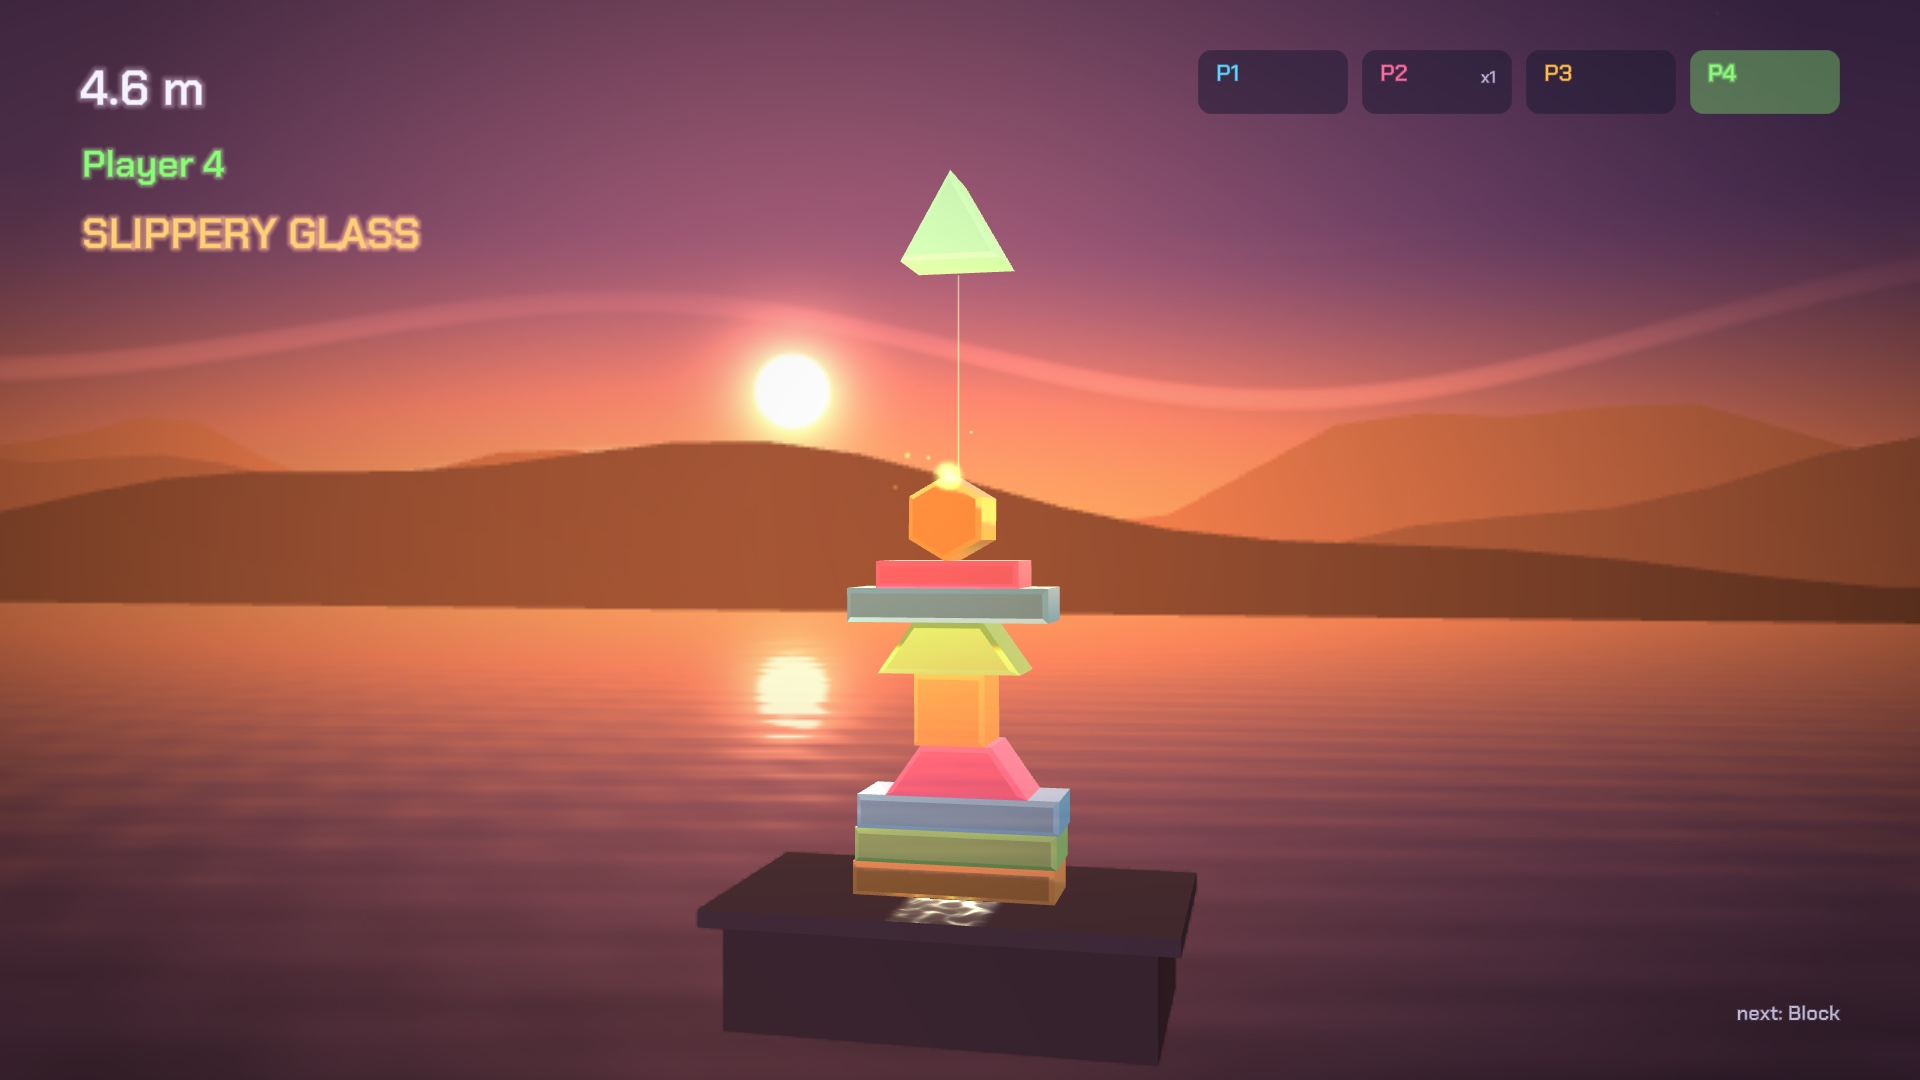
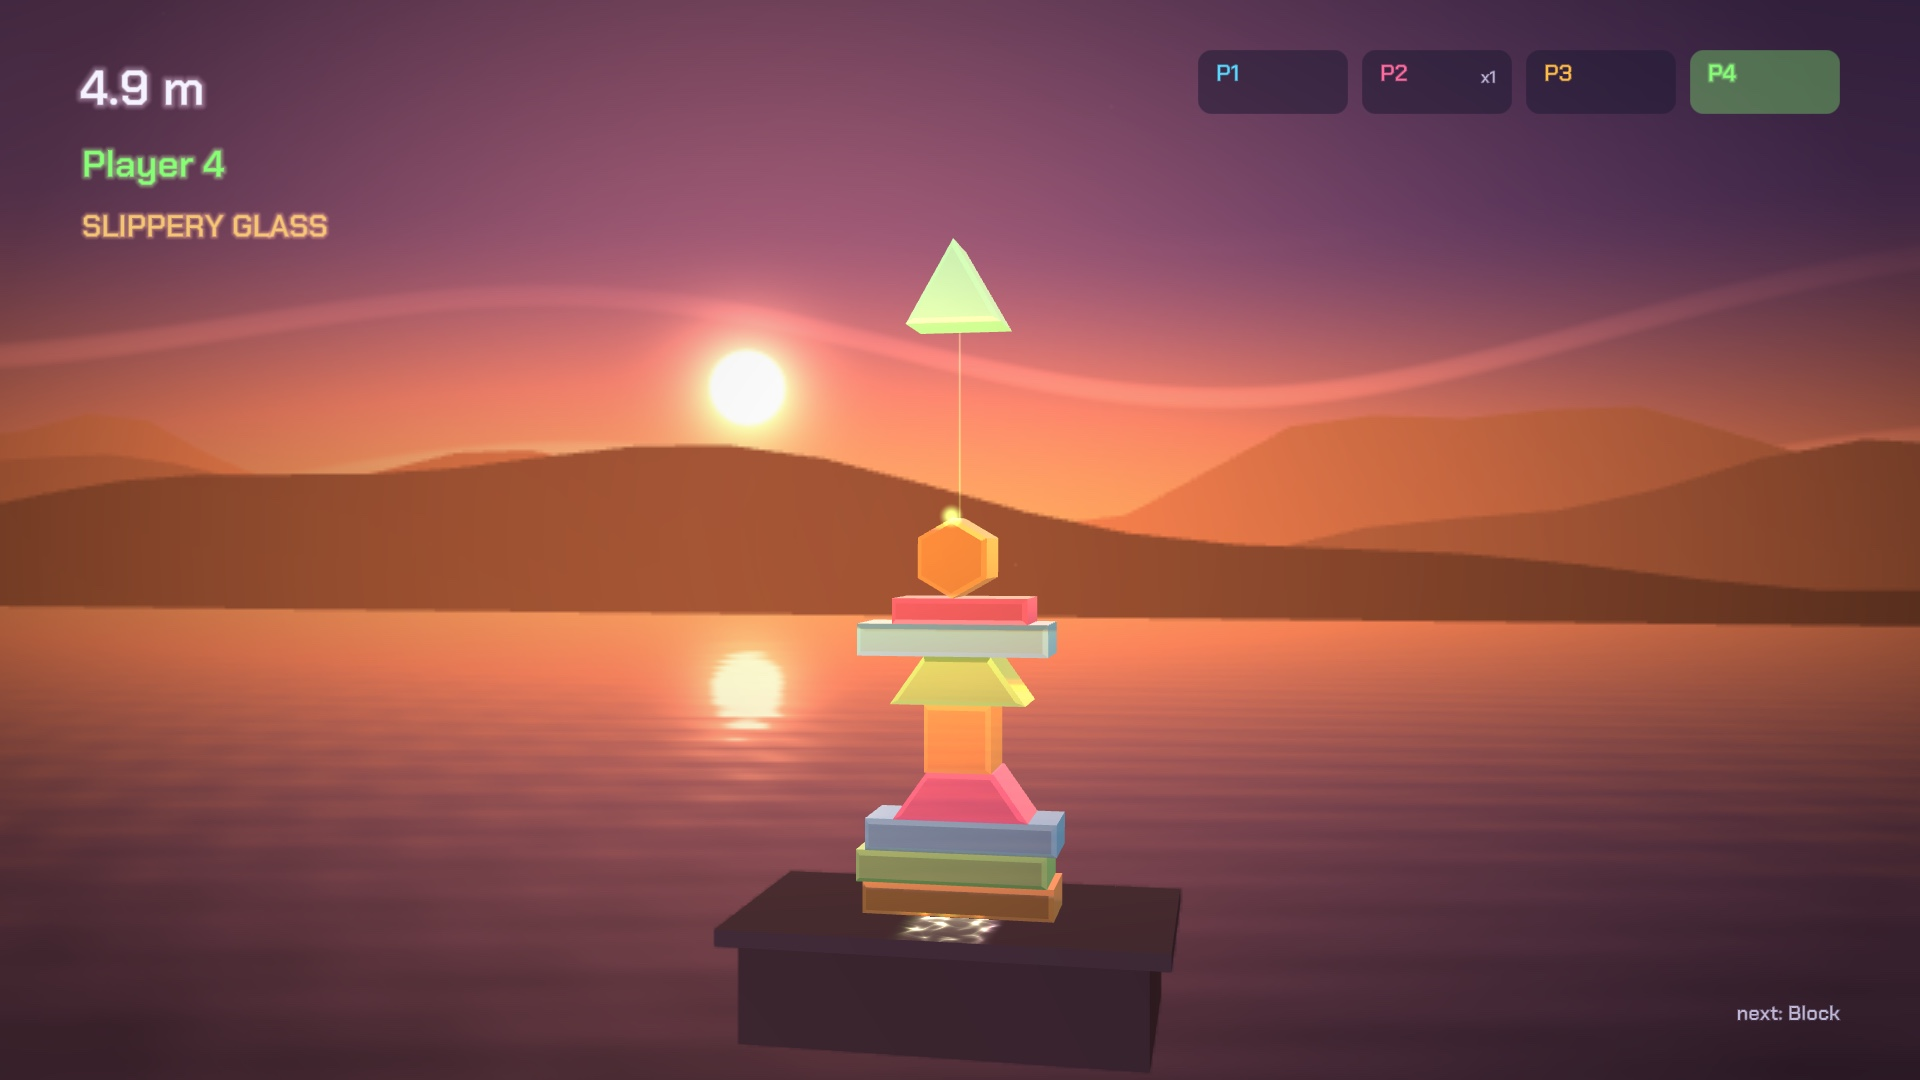
Prism Spire: a replay of every collapse (letterboxed, a sweeping camera, its chimes again; OK skips)
From each drop on, the last 6 s of every piece's position, the plinth's shake and the chimes and
shatters are kept in a ring; after the collapse the 4 s around it play again before the results.
Seen on the TV at 59.3 fps. The store kit gains the replay and re-picks the frames the replay moved;
shots fix the Daily Spire's day so the kit reproduces.

diff --git a/apps/prism-spire/src/game.c b/apps/prism-spire/src/game.c
@@ -137,7 +137,7 @@ typedef struct {
 
 typedef struct { float x, y, z, vx, vy, vz, life, max, size; Col c; int kind; } Fx;  /* kind 0 spark, 1 streak */
 
-typedef enum { ST_TITLE, ST_HOWTO, ST_CREDITS, ST_AIM, ST_SETTLE, ST_COLLAPSE, ST_RESULT, ST_PAUSE } State;
+typedef enum { ST_TITLE, ST_HOWTO, ST_CREDITS, ST_AIM, ST_SETTLE, ST_COLLAPSE, ST_REPLAY, ST_RESULT, ST_PAUSE } State;
 typedef enum { EV_NONE, EV_WIND, EV_TREMOR, EV_SLIPPERY } Event;
 static const char *const kEventName[] = {"", "WIND", "TREMOR", "SLIPPERY GLASS"};
 
@@ -152,6 +152,7 @@ static struct {
     Piece pieces[MAX_PIECES];
     int npieces_placed;     /* pieces dropped this round */
     bool lowering;          /* OK was pressed: the piece glides down the beam before it is let go */
+    int replay_from, replay_to, replay_ev;  /* the collapse replay: recorded frames, next event */
     float release_y;
     /* the turn */
     bool solo, demo;        /* demo: the AI plays (attract mode and scripts) */
@@ -381,6 +382,70 @@ static void fx_add(float x, float y, float z, float vx, float vy, float vz, floa
     G.fx[G.nfx++] = (Fx){x, y, z, vx, vy, vz, life, life, size, c, kind};
 }
 
+/* ---- the collapse replay ----------------------------------------------------------------------- */
+/* From each drop on, the last 6 s of every piece's position (and the plinth's shake) are kept in a
+ * ring of frames, with the chimes and shatters as events. After a collapse the game plays the
+ * moments around it again from a camera sweeping round the plinth, before the results. */
+#define REC_FRAMES 360
+#define REC_PER_FRAME 128
+#define REC_EVENTS 768   /* at most 2 chimes a frame are kept, so 6 s of collapse fits */
+typedef struct { float x, y, a, sink; uint8_t shape, frost, rgba[4]; } RecEnt;
+typedef struct { int frame; int kind; float vel, pan, x; Col tint; } RecEvent;  /* kind 0 chime, 1 shatter */
+static RecEnt g_rec[REC_FRAMES][REC_PER_FRAME];
+static uint8_t g_rec_n[REC_FRAMES];
+static float g_rec_shake[REC_FRAMES];
+static RecEvent g_rec_ev[REC_EVENTS];
+static int g_rec_frames, g_rec_nev, g_rec_collapse = -1;
+static bool g_recording;
+
+static void rec_reset(void)
+{
+    g_rec_frames = g_rec_nev = 0;
+    g_rec_collapse = -1;
+}
+static void rec_event(int kind, float vel, float pan, float x, Col tint)
+{
+    static int frame = -1, in_frame;
+    if (!g_recording) return;
+    if (frame != g_rec_frames) { frame = g_rec_frames; in_frame = 0; }
+    if (kind == 0 && in_frame >= 2) return;
+    in_frame++;
+    if (g_rec_nev >= REC_EVENTS) {  /* full (a long settle): forget events older than the frame ring */
+        int j = 0;
+        for (int i = 0; i < g_rec_nev; i++)
+            if (g_rec_ev[i].frame > g_rec_frames - REC_FRAMES) g_rec_ev[j++] = g_rec_ev[i];
+        g_rec_nev = j;
+        if (g_rec_nev >= REC_EVENTS) return;
+    }
+    g_rec_ev[g_rec_nev++] = (RecEvent){g_rec_frames, kind, vel, pan, x, tint};
+}
+static uint8_t to_u8(float v) { return (uint8_t)(clampf(v, 0.0f, 1.0f) * 255.0f + 0.5f); }
+static void rec_frame(void)
+{
+    const int f = g_rec_frames % REC_FRAMES;
+    int n = 0;
+    for (int i = 0; i < MAX_PIECES && n < REC_PER_FRAME; i++) {
+        const Piece *p = &G.pieces[i];
+        if (!p->used) continue;
+        const b2Vec2 c = b2Body_GetPosition(p->body);
+        RecEnt *e = &g_rec[f][n++];
+        e->x = c.x;
+        e->y = c.y;
+        e->a = b2Rot_GetAngle(b2Body_GetRotation(p->body));
+        e->sink = clampf(1.0f - (p->under_t - 2.0f) / 1.5f, 0.0f, 1.0f);
+        e->shape = (uint8_t)p->shape;
+        e->frost = p->frost > 0.5f;
+        e->rgba[0] = to_u8(p->tint.r);
+        e->rgba[1] = to_u8(p->tint.g);
+        e->rgba[2] = to_u8(p->tint.b);
+        e->rgba[3] = to_u8(p->tint.a);
+    }
+    g_rec_n[f] = (uint8_t)n;
+    g_rec_shake[f] = G.shake;
+    g_rec_frames++;
+}
+static int replay_frame(void) { return G.replay_from + (int)(G.t * 60.0f); }
+
 static void fx_burst(float x, float y, Col c, int n, float speed)
 {
     for (int i = 0; i < n; i++) {
@@ -442,6 +507,7 @@ static void toast(const char *s)
 static void begin_turn(void)
 {
     G.lowering = false;
+    rec_reset();
     G.state = ST_AIM;
     G.t = 0;
     G.hover_shape = G.next_shape;
@@ -482,7 +548,7 @@ static void new_round(bool keep_scores)
     G.new_best = false;
     if (!keep_scores) memset(G.losses, 0, sizeof G.losses);
     if (G.solo) {
-        G.day = today();
+        G.day = G.shots ? 20408u : today();  /* scripted shots: a fixed day, so the store frames reproduce */
         G.deal.s = (uint64_t)G.day * 2654435761ull + 12345;
         G.cur = 0;
         G.nplayers = 1;
@@ -548,6 +614,7 @@ static void start_collapse(void)
     G.state = ST_COLLAPSE;
     G.t = 0;
     G.loser = G.cur;
+    g_rec_collapse = g_rec_frames;
     G.slowmo = 0.3f;
     G.event = EV_NONE;
     G.tremor_t = 0;
@@ -638,7 +705,10 @@ static void physics_step(float dt)
         const int pi = ia >= 0 ? ia : ib;
         const float vel = clampf(h->approachSpeed / 6.0f, 0.0f, 1.0f);
         if (G.state == ST_COLLAPSE || G.state == ST_RESULT) {
-            if (chimes++ < 6) audio_chime(vel, h->point.x / 5.0f);
+            if (chimes++ < 6) {
+                audio_chime(vel, h->point.x / 5.0f);
+                rec_event(0, vel, h->point.x / 5.0f, 0.0f, col(1, 1, 1, 1));
+            }
         }
         if (ground && pi >= 0 && G.pieces[pi].used && !G.pieces[pi].shard && h->approachSpeed > 2.5f && nshatter < 16) {
             bool dup = false;
@@ -666,6 +736,7 @@ static void physics_step(float dt)
             }
             fx_burst(c.x, -PLINTH_H + 0.2f, tint, 18, 4.0f);
             audio_shatter(vel, c.x / 5.0f);
+            rec_event(1, vel, c.x / 5.0f, c.x, tint);
         }
     }
 }
@@ -711,6 +782,31 @@ static void settle_update(float dt)
     }
 }
 
+static void show_result(void)
+{
+    G.state = ST_RESULT;
+    G.t = 0;
+    audio_music(0);
+    audio_ui(UI_FANFARE, 0);
+}
+
+static void start_replay(void)
+{
+    const int oldest = g_rec_frames > REC_FRAMES ? g_rec_frames - REC_FRAMES : 0;
+    G.replay_from = g_rec_collapse - 50 > oldest ? g_rec_collapse - 50 : oldest;
+    G.replay_to = g_rec_collapse + 190 < g_rec_frames - 1 ? g_rec_collapse + 190 : g_rec_frames - 1;
+    if (g_rec_collapse < 0 || G.replay_to - G.replay_from < 60) {
+        show_result();
+        return;
+    }
+    G.state = ST_REPLAY;
+    G.t = 0;
+    SDL_Log("prism-spire: replay: %d frames, %d events", G.replay_to - G.replay_from, g_rec_nev);
+    for (G.replay_ev = 0; G.replay_ev < g_rec_nev && g_rec_ev[G.replay_ev].frame < G.replay_from; G.replay_ev++) {}
+    audio_music(0);
+    audio_ui(UI_TURN, 0);
+}
+
 static void aim_update(float dt)
 {
     if (G.lowering) {
@@ -744,20 +840,28 @@ static void update(float dt)
     G.t += dt;
     if (G.toast_t > 0) G.toast_t -= dt;
     fx_update(dt);
-    const bool playing = G.state == ST_AIM || G.state == ST_SETTLE || G.state == ST_COLLAPSE || G.state == ST_RESULT ||
+    const bool playing = G.state == ST_AIM || G.state == ST_SETTLE || G.state == ST_COLLAPSE || G.state == ST_REPLAY || G.state == ST_RESULT ||
                          ((G.state == ST_TITLE || G.state == ST_HOWTO || G.state == ST_CREDITS) && G.demo);
     if (G.state == ST_PAUSE) return;
     if (playing) {
         if (G.state == ST_COLLAPSE) {
             G.slowmo = G.t < 2.2f ? 0.3f : approach(G.slowmo, 1.0f, 2.0f, dt);
-            if (G.t > 5.0f) {
-                G.state = ST_RESULT;
-                G.t = 0;
-                audio_music(0);
-                audio_ui(UI_FANFARE, 0);
+            if (G.t > 5.0f) start_replay();
+        } else if (G.state == ST_REPLAY) {
+            const int f = replay_frame();
+            for (; G.replay_ev < g_rec_nev && g_rec_ev[G.replay_ev].frame <= f; G.replay_ev++) {
+                const RecEvent *e = &g_rec_ev[G.replay_ev];
+                if (e->kind == 0) audio_chime(e->vel, e->pan);
+                else {
+                    audio_shatter(e->vel, e->pan);
+                    fx_burst(e->x, -PLINTH_H + 0.2f, e->tint, 18, 4.0f);
+                }
             }
+            if (f > G.replay_to) show_result();
         }
+        g_recording = G.state == ST_SETTLE || G.state == ST_COLLAPSE;
         physics_step(STEP * G.slowmo);
+        if (g_recording) rec_frame();
         if (G.state == ST_AIM) aim_update(dt);
         settle_update(dt);
         /* attract mode: rebuild after a collapse */
@@ -857,7 +961,17 @@ static void draw_world(void)
     float orbit = 0.22f * sinf(G.time * 0.11f);
     if (G.state == ST_COLLAPSE) orbit += 0.6f * sinf(clampf(G.t / 5.0f, 0, 1) * (float)M_PI * 0.5f);
     if (G.state == ST_TITLE || G.state == ST_HOWTO || G.state == ST_CREDITS) orbit = 0.45f * sinf(G.time * 0.07f);
-    G.cam_orbit = approach(G.cam_orbit, orbit, 1.5f, 1.0f / 60.0f);
+    const bool replay = G.state == ST_REPLAY;
+    if (replay) {
+        /* the replay cuts to the other side and sweeps round; the whole spire stays in frame between
+         * the letterbox bars */
+        const float k = clampf((float)(replay_frame() - G.replay_from) / (float)(G.replay_to - G.replay_from), 0.0f, 1.0f);
+        G.cam_orbit = -0.95f + 1.75f * k * k * (3.0f - 2.0f * k);
+        G.cam_r = target_r * 1.08f;
+        G.cam_y = target_y * 0.92f;
+    } else {
+        G.cam_orbit = approach(G.cam_orbit, orbit, 1.5f, 1.0f / 60.0f);
+    }
     /* Eye a little below the tower's middle, so the glass stands against the sky. On the title the
      * tower sits to the right of the menu. */
     const bool title = G.state == ST_TITLE || G.state == ST_HOWTO || G.state == ST_CREDITS;
@@ -867,10 +981,22 @@ static void draw_world(void)
     const float tgt[3] = {G.cam_x, G.cam_y + 0.4f, 0.0f};
     render_camera(eye, tgt, 42.0f);
 
-    render_plinth(G.shake);
+    const int rf = replay ? replay_frame() % REC_FRAMES : 0;
+    render_plinth(replay ? g_rec_shake[rf] : G.shake);
     /* caustics: glass near the bottom of the tower colours the plinth's top */
     int nc = 0;
-    for (int i = 0; i < MAX_PIECES && nc < 16; i++) {
+    if (replay) {
+        for (int k = 0; k < g_rec_n[rf]; k++) {
+            const RecEnt *e = &g_rec[rf][k];
+            const Col t = col(e->rgba[0] / 255.0f, e->rgba[1] / 255.0f, e->rgba[2] / 255.0f, e->rgba[3] / 255.0f);
+            if (e->y >= 0 && e->y <= 1.6f && e->shape != SH_SHARD && nc < 16) {
+                render_caustic(e->x, 0.55f, col_scale(t, 0.55f));
+                nc++;
+            }
+            if (e->sink > 0.0f) render_piece(g_mesh[e->shape], e->x, e->y - (1.0f - e->sink) * 0.3f, e->a, t, e->frost ? 1.0f : 0.0f, 0.0f, e->sink);
+        }
+    }
+    for (int i = 0; i < MAX_PIECES && nc < 16 && !replay; i++) {
         const Piece *p = &G.pieces[i];
         if (!p->used || p->shard) continue;
         const b2Vec2 c = b2Body_GetPosition(p->body);
@@ -879,7 +1005,7 @@ static void draw_world(void)
         nc++;
     }
     /* pieces */
-    for (int i = 0; i < MAX_PIECES; i++) {
+    for (int i = 0; i < MAX_PIECES && !replay; i++) {
         const Piece *p = &G.pieces[i];
         if (!p->used) continue;
         const b2Vec2 c = b2Body_GetPosition(p->body);
@@ -961,6 +1087,16 @@ static void draw_hud(void)
         SDL_snprintf(s, sizeof s, "next: %s", kShapeNames[G.next_shape]);
         render_text(s, 1840, 1000, 26, dim, 1, 0);
     }
+}
+
+static void draw_replay(void)
+{
+    const float a = clampf(G.t / 0.3f, 0, 1);
+    render_panel(0, 0, 1920, 92, 0, col(0, 0, 0, 0.85f * a));  /* letterbox */
+    render_panel(0, 988, 1920, 92, 0, col(0, 0, 0, 0.85f * a));
+    render_panel(84, 33, 24, 24, 12, col(1.0f, 0.25f, 0.3f, (0.55f + 0.45f * sinf(G.time * 5.0f)) * a));
+    render_text("REPLAY", 124, 24, 36, col(0.96f, 0.95f, 1.0f, a), -1, 0.3f);
+    if (!G.demo) render_text("OK skip", 1840, 1014, 26, col(0.75f, 0.72f, 0.85f, a), 1, 0);
 }
 
 static void draw_result(void)
@@ -1228,6 +1364,10 @@ bool game_button(GameButton b, bool down)
         break;
     case ST_COLLAPSE:
         break;
+    case ST_REPLAY:
+        if (G.demo && (b == GB_BACK || b == GB_MENU)) go_title();
+        else if (!G.demo && G.t > 0.3f && (b == GB_OK || b == GB_START || b == GB_BACK)) show_result();
+        break;
     case ST_RESULT:
         if (G.t < 0.8f) break;
         if (b == GB_OK || b == GB_START) {
@@ -1267,6 +1407,7 @@ void game_frame(float dt, int fb_w, int fb_h, float fps)
     case ST_HOWTO: draw_howto(); break;
     case ST_CREDITS: draw_credits(); break;
     case ST_AIM: case ST_SETTLE: case ST_COLLAPSE: draw_hud(); break;
+    case ST_REPLAY: draw_replay(); break;
     case ST_RESULT: draw_hud(); draw_result(); break;
     case ST_PAUSE: draw_hud(); draw_pause(); break;
     }

diff --git a/apps/prism-spire/store/README.md b/apps/prism-spire/store/README.md
@@ -11,7 +11,7 @@ App Test walkthrough is in [Gravity Choir's kit](../../gravity-choir/store/READM
 | `app-icon-1280x720.png` | Fire TV app icon (required; no transparency) | 1280×720 |
 | `../icon/icon.png` | large icon (also the package's launcher icon) | 512×512 |
 | `icon-114.png` | small icon | 114×114 |
-| `screenshot-1.jpg` … `screenshot-7.jpg` | the title, aiming at 6 m, 7.3 m, an event, a collapse, the results, the Daily Spire | 1920×1080 |
+| `screenshot-1.jpg` … `screenshot-8.jpg` | the title, aiming at 6 m, 7.3 m, an event, a collapse, its replay, the results, the Daily Spire | 1920×1080 |
 | `background-1920x1080.jpg` | optional background image | 1920×1080 |
 
 Every image is a frame the game rendered itself: `make-kit.sh` runs the Mac build
@@ -34,7 +34,7 @@ The demo AI plays the party rounds; frames on the stick look the same (checked a
 >
 > On your own, climb the Daily Spire: everyone gets the same pieces and events today, and your best height is saved.
 >
-> The glass catches the low sun and bends the sky behind it, every piece that comes to rest rings a bell tuned to its height, and a collapse sends shards ringing into the lake. All the sound is synthesized live. The game runs natively at 60 frames per second.
+> The glass catches the low sun and bends the sky behind it, every piece that comes to rest rings a bell tuned to its height, and a collapse sends shards ringing into the lake, then plays again in slow motion from the other side. All the sound is synthesized live. The game runs natively at 60 frames per second.
 >
 > Controls: Left and Right move the piece, Up and Down turn it, OK drops it, and Back pauses. Gamepads work too, for whoever's turn it is.
 
@@ -60,7 +60,7 @@ The demo AI plays the party rounds; frames on the stick look the same (checked a
 - **Credits and licences:** Credits on the title screen; `assets/licenses/` in the package (Box2D, SDL,
   the Chakra Petch font).
 - **Testing instructions** (the console's field for things a reviewer might not find):
-  > Fire TV remote: on the title, Up/Down choose and Left/Right set the number of players for a party; OK starts. In a round, Left/Right move the hovering piece, Up/Down rotate it, and OK drops it; pass the remote to the player named on the left. A round ends when a piece falls off the plinth; OK starts the next round, Back returns to the title. Back during play pauses; Back on the title exits. Daily Spire is a solo mode with the same pieces for everyone each day. After three minutes without input the sound goes quiet so the screensaver can start; any button brings it back. No account, network connection or purchase is involved.
+  > Fire TV remote: on the title, Up/Down choose and Left/Right set the number of players for a party; OK starts. In a round, Left/Right move the hovering piece, Up/Down rotate it, and OK drops it; pass the remote to the player named on the left. A round ends when a piece falls off the plinth: a short replay of the collapse plays (OK skips it), then the results, where OK starts the next round and Back returns to the title. Back during play pauses; Back on the title exits. Daily Spire is a solo mode with the same pieces for everyone each day. After three minutes without input the sound goes quiet so the screensaver can start; any button brings it back. No account, network connection or purchase is involved.
 
 ## Before submitting
 - A playtest with people: round length and the piece mix were tuned with the demo AI only

diff --git a/docs/STATUS.md b/docs/STATUS.md
@@ -9,7 +9,8 @@ _Last updated: 2026-11-17 (Prism Spire and Chroma Orbit polished, measured and g
   - Mac preview: `apps/prism-spire/host-preview.sh run|shots <title|play|tall|collapse|solo|keyart|logo|howto|credits>`; the same scripts on the TV with `pkg://com.firetvnative.prismspire.main?script=tall`. Audio check: `apps/prism-spire/tools/audio-test.sh` (writes a WAV).
   - 2026-11-17: OK glides the piece down its beam before letting go, and the deal ramps in the tricky shapes after the 5th piece: careful-AI rounds went from 8.1 pieces / 3.1 m to 10.7 / 4.9 m (`DESIGN.md`, "Balance, measured"; a `round over` log line for playtests). One full-screen pass instead of two (decision 65): the title 55 → 59.5 fps, play 59.3; MSAA on the background, a soft sun. The turn and event labels moved under the height; the title menu moved left of the spire.
   - Store kit: `apps/prism-spire/store/` (`make-kit.sh` renders every image deterministically).
-  - Next: a playtest with people (round length, piece mix, event odds), a collapse replay.
+  - A collapse replay (2026-11-17): the moments around the collapse again, letterboxed, from a sweeping camera, with their chimes; OK skips. Seen on the TV at 59.3 fps.
+  - Next: a playtest with people (round length, piece mix, event odds).
 - **Chroma Orbit (`apps/chroma-orbit`), the third original game: playable on the TV at 60 fps, in the arcade (third card).** A pair-dropper on a polar grid around a plasma star; you turn the planet. Rules `src/board.c` (+ `tools/rules-sim.c` balance runs), greedy AI attract mode, sky/corona at 640×360 + a sharp star quad (decision 64). GPU A/B: `?co=sky:0,cells:0,sparks:0,ui:0`; test scripts `?script=nova|over|sky|tour` (also `host-preview.sh shots <script>`).
   - 2026-11-17: checked on the TV with those scripts: worlds 1–8, the supernova (the star now swallows the rings, a white-out over the board, a title card for the new world) and the game over (the rings drain into the star). Each world has its own backdrop (nebula, aurora, ocean, embers, a neon skyline). The key art and logo are a still, full board. Store kit: `apps/chroma-orbit/store/`.
   - Next: a playtest with people (fall speed, flare rate, world goal).

diff --git a/apps/prism-spire/DESIGN.md b/apps/prism-spire/DESIGN.md
@@ -51,8 +51,10 @@ is "live".
 - **Scene:** a dusk gradient sky with a low sun and a few early stars, three layers of low-poly hills in
   atmospheric perspective, a stone plinth whose top carries coloured caustics cast by the glass.
 - **Collapse:** slow motion, the camera swings round, pieces that hit the ground shatter into shards
-  (small glass prisms in the physics world too), and every impact rings a chime. Afterwards a short
-  replay from two more angles.
+  (small glass prisms in the physics world too), and every impact rings a chime. Then a 4 s replay:
+  the last 6 s of every piece's position are kept from each drop on (with the chimes and shatters),
+  and the moments around the collapse play again, letterboxed, from a camera that cuts to the other
+  side and sweeps round the plinth. OK skips it.
 - 4× MSAA on the 3D pass; the UI is SDF text from the same font as Gravity Choir (Chakra Petch).
 
 ## Sound (all synthesized)
